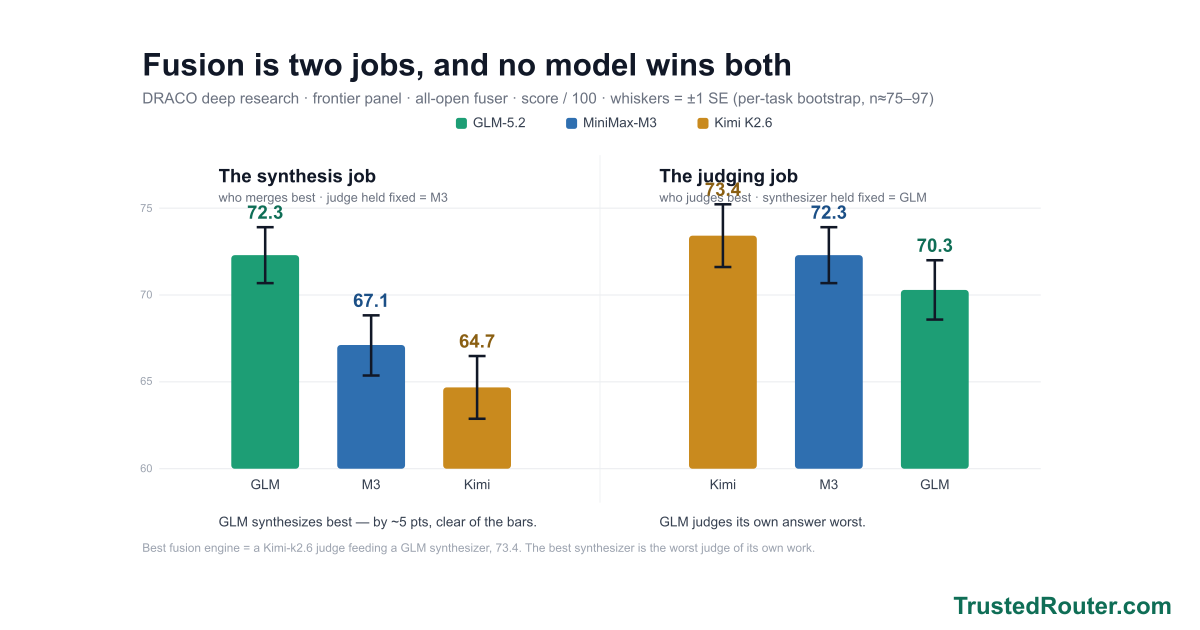
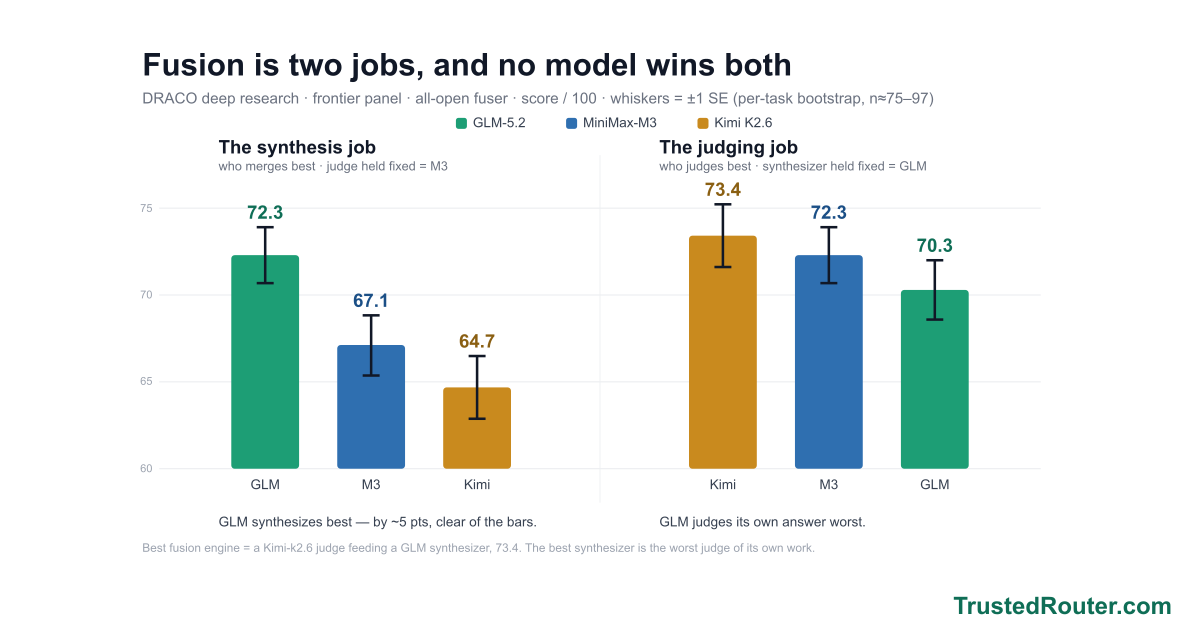
blog: fix fusion-is-two-jobs chart — raise panel titles so tall bars' labels/whiskers don't overlap the headings

Changed region(s): [[0.555, 0.2111, 0.7708, 0.3317], [0.185, 0.2111, 0.37, 0.3317]]

diff --git a/src/trusted_router/blog.py b/src/trusted_router/blog.py
@@ -32,7 +32,7 @@ BLOG_POSTS: tuple[BlogPost, ...] = (
         source_label="TrustedRouter-Fusion-Draco on GitHub",
         source_url="https://github.com/Lore-Hex/TrustedRouter-Fusion-Draco",
         body_html="""
-<svg xmlns="http://www.w3.org/2000/svg" viewBox="0 0 1200 630" width="100%" style="height:auto" font-family="Inter,Arial,sans-serif"><rect width="1200" height="630" fill="#ffffff"/><text x="60" y="56" font-size="37" font-weight="700" fill="#111827">Fusion is two jobs, and no model wins both</text><text x="60" y="89" font-size="18" fill="#6b7280">DRACO deep research · frontier panel · all-open fuser · score / 100 · whiskers = ±1 SE (per-task bootstrap, n≈75–97)</text><g font-size="16" fill="#374151"><rect x="430" y="106" width="13" height="13" rx="3" fill="#1d9e75"/><text x="450" y="117">GLM-5.2</text><rect x="560" y="106" width="13" height="13" rx="3" fill="#2f6fb0"/><text x="580" y="117">MiniMax-M3</text><rect x="715" y="106" width="13" height="13" rx="3" fill="#c98a1e"/><text x="735" y="117">Kimi K2.6</text></g><g stroke="#e5e7eb" stroke-width="1"><line x1="80" y1="212.5" x2="1120" y2="212.5"/><line x1="80" y1="315" x2="1120" y2="315"/><line x1="80" y1="417.5" x2="1120" y2="417.5"/><line x1="80" y1="520" x2="1120" y2="520"/></g><g font-size="13" fill="#9ca3af" text-anchor="end"><text x="72" y="217">75</text><text x="72" y="319">70</text><text x="72" y="421">65</text><text x="72" y="524">60</text></g><line x1="600" y1="150" x2="600" y2="560" stroke="#eceef1" stroke-width="1"/><text x="150" y="182" font-size="22" font-weight="600" fill="#111827">The synthesis job</text><text x="150" y="205" font-size="15" fill="#6b7280">who merges best · judge held fixed = M3</text><text x="670" y="182" font-size="22" font-weight="600" fill="#111827">The judging job</text><text x="670" y="205" font-size="15" fill="#6b7280">who judges best · synthesizer held fixed = GLM</text><g><rect x="165" y="268" width="80" height="252" rx="4" fill="#1d9e75"/><rect x="290" y="374" width="80" height="146" rx="4" fill="#2f6fb0"/><rect x="415" y="424" width="80" height="96" rx="4" fill="#c98a1e"/></g><g stroke="#111827" stroke-width="3"><line x1="205" y1="235" x2="205" y2="301"/><line x1="195" y1="235" x2="215" y2="235"/><line x1="195" y1="301" x2="215" y2="301"/><line x1="330" y1="339" x2="330" y2="410"/><line x1="320" y1="339" x2="340" y2="339"/><line x1="320" y1="410" x2="340" y2="410"/><line x1="455" y1="387" x2="455" y2="461"/><line x1="445" y1="387" x2="465" y2="387"/><line x1="445" y1="461" x2="465" y2="461"/></g><g text-anchor="middle"><text x="205" y="225" font-size="22" font-weight="700" fill="#0f6e56">72.3</text><text x="330" y="329" font-size="22" font-weight="700" fill="#1b4f86">67.1</text><text x="455" y="377" font-size="22" font-weight="700" fill="#8a5f12">64.7</text></g><g><rect x="705" y="245" width="80" height="275" rx="4" fill="#c98a1e"/><rect x="830" y="268" width="80" height="252" rx="4" fill="#2f6fb0"/><rect x="955" y="309" width="80" height="211" rx="4" fill="#1d9e75"/></g><g stroke="#111827" stroke-width="3"><line x1="745" y1="208" x2="745" y2="282"/><line x1="735" y1="208" x2="755" y2="208"/><line x1="735" y1="282" x2="755" y2="282"/><line x1="870" y1="235" x2="870" y2="301"/><line x1="860" y1="235" x2="880" y2="235"/><line x1="860" y1="301" x2="880" y2="301"/><line x1="995" y1="274" x2="995" y2="344"/><line x1="985" y1="274" x2="1005" y2="274"/><line x1="985" y1="344" x2="1005" y2="344"/></g><g text-anchor="middle"><text x="745" y="198" font-size="22" font-weight="700" fill="#8a5f12">73.4</text><text x="870" y="225" font-size="22" font-weight="700" fill="#1b4f86">72.3</text><text x="995" y="264" font-size="22" font-weight="700" fill="#0f6e56">70.3</text></g><g font-size="16" fill="#374151" text-anchor="middle"><text x="205" y="544">GLM</text><text x="330" y="544">M3</text><text x="455" y="544">Kimi</text><text x="745" y="544">Kimi</text><text x="870" y="544">M3</text><text x="995" y="544">GLM</text></g><text x="150" y="588" font-size="16" fill="#374151">GLM synthesizes best — by ~5 pts, clear of the bars.</text><text x="670" y="588" font-size="16" fill="#374151">GLM judges its own answer worst.</text><text x="60" y="618" font-size="14" fill="#9ca3af">Best fusion engine = a Kimi-k2.6 judge feeding a GLM synthesizer, 73.4. The best synthesizer is the worst judge of its own work.</text><text x="1188" y="621" text-anchor="end" font-family="Inter,Arial,sans-serif" font-size="21" font-weight="700" fill="#0f6e56">TrustedRouter.com</text></svg>
+<svg xmlns="http://www.w3.org/2000/svg" viewBox="0 0 1200 630" width="100%" style="height:auto" font-family="Inter,Arial,sans-serif"><rect width="1200" height="630" fill="#ffffff"/><text x="60" y="56" font-size="37" font-weight="700" fill="#111827">Fusion is two jobs, and no model wins both</text><text x="60" y="89" font-size="18" fill="#6b7280">DRACO deep research · frontier panel · all-open fuser · score / 100 · whiskers = ±1 SE (per-task bootstrap, n≈75–97)</text><g font-size="16" fill="#374151"><rect x="430" y="106" width="13" height="13" rx="3" fill="#1d9e75"/><text x="450" y="117">GLM-5.2</text><rect x="560" y="106" width="13" height="13" rx="3" fill="#2f6fb0"/><text x="580" y="117">MiniMax-M3</text><rect x="715" y="106" width="13" height="13" rx="3" fill="#c98a1e"/><text x="735" y="117">Kimi K2.6</text></g><g stroke="#e5e7eb" stroke-width="1"><line x1="80" y1="212.5" x2="1120" y2="212.5"/><line x1="80" y1="315" x2="1120" y2="315"/><line x1="80" y1="417.5" x2="1120" y2="417.5"/><line x1="80" y1="520" x2="1120" y2="520"/></g><g font-size="13" fill="#9ca3af" text-anchor="end"><text x="72" y="217">75</text><text x="72" y="319">70</text><text x="72" y="421">65</text><text x="72" y="524">60</text></g><line x1="600" y1="150" x2="600" y2="560" stroke="#eceef1" stroke-width="1"/><text x="150" y="148" font-size="22" font-weight="600" fill="#111827">The synthesis job</text><text x="150" y="168" font-size="15" fill="#6b7280">who merges best · judge held fixed = M3</text><text x="670" y="148" font-size="22" font-weight="600" fill="#111827">The judging job</text><text x="670" y="168" font-size="15" fill="#6b7280">who judges best · synthesizer held fixed = GLM</text><g><rect x="165" y="268" width="80" height="252" rx="4" fill="#1d9e75"/><rect x="290" y="374" width="80" height="146" rx="4" fill="#2f6fb0"/><rect x="415" y="424" width="80" height="96" rx="4" fill="#c98a1e"/></g><g stroke="#111827" stroke-width="3"><line x1="205" y1="235" x2="205" y2="301"/><line x1="195" y1="235" x2="215" y2="235"/><line x1="195" y1="301" x2="215" y2="301"/><line x1="330" y1="339" x2="330" y2="410"/><line x1="320" y1="339" x2="340" y2="339"/><line x1="320" y1="410" x2="340" y2="410"/><line x1="455" y1="387" x2="455" y2="461"/><line x1="445" y1="387" x2="465" y2="387"/><line x1="445" y1="461" x2="465" y2="461"/></g><g text-anchor="middle"><text x="205" y="225" font-size="22" font-weight="700" fill="#0f6e56">72.3</text><text x="330" y="329" font-size="22" font-weight="700" fill="#1b4f86">67.1</text><text x="455" y="377" font-size="22" font-weight="700" fill="#8a5f12">64.7</text></g><g><rect x="705" y="245" width="80" height="275" rx="4" fill="#c98a1e"/><rect x="830" y="268" width="80" height="252" rx="4" fill="#2f6fb0"/><rect x="955" y="309" width="80" height="211" rx="4" fill="#1d9e75"/></g><g stroke="#111827" stroke-width="3"><line x1="745" y1="208" x2="745" y2="282"/><line x1="735" y1="208" x2="755" y2="208"/><line x1="735" y1="282" x2="755" y2="282"/><line x1="870" y1="235" x2="870" y2="301"/><line x1="860" y1="235" x2="880" y2="235"/><line x1="860" y1="301" x2="880" y2="301"/><line x1="995" y1="274" x2="995" y2="344"/><line x1="985" y1="274" x2="1005" y2="274"/><line x1="985" y1="344" x2="1005" y2="344"/></g><g text-anchor="middle"><text x="745" y="198" font-size="22" font-weight="700" fill="#8a5f12">73.4</text><text x="870" y="225" font-size="22" font-weight="700" fill="#1b4f86">72.3</text><text x="995" y="264" font-size="22" font-weight="700" fill="#0f6e56">70.3</text></g><g font-size="16" fill="#374151" text-anchor="middle"><text x="205" y="544">GLM</text><text x="330" y="544">M3</text><text x="455" y="544">Kimi</text><text x="745" y="544">Kimi</text><text x="870" y="544">M3</text><text x="995" y="544">GLM</text></g><text x="150" y="588" font-size="16" fill="#374151">GLM synthesizes best — by ~5 pts, clear of the bars.</text><text x="670" y="588" font-size="16" fill="#374151">GLM judges its own answer worst.</text><text x="60" y="618" font-size="14" fill="#9ca3af">Best fusion engine = a Kimi-k2.6 judge feeding a GLM synthesizer, 73.4. The best synthesizer is the worst judge of its own work.</text><text x="1188" y="621" text-anchor="end" font-family="Inter,Arial,sans-serif" font-size="21" font-weight="700" fill="#0f6e56">TrustedRouter.com</text></svg>
 <p>Fuse a panel of models into one answer and you are running two separate jobs. A <strong>judge</strong> reads the panel and writes down where the models agree, where they contradict each other, and what they all missed. A <strong>synthesizer</strong> takes the panel and that analysis and writes the final answer. We put the three strongest open models — <a href="https://www.minimax.io"><span class="mono">MiniMax-M3</span></a>, <a href="https://z.ai"><span class="mono">GLM-5.2</span></a>, and <a href="https://www.moonshot.ai"><span class="mono">Kimi K2.6</span></a> — into both seats, every combination, nine fusers, all on the same frontier research panel and graded by the same <span class="mono">gemini-3.1-pro</span>. The best one is a pair: <strong>a Kimi-k2.6 judge and GLM writing, 73.4</strong> on <a href="/blog/fusion-evals-open-source">DRACO</a> deep research — the highest of the nine, with an M3 judge a hair behind at 72.3. No single model doing both jobs comes close.</p>
 <p>We <a href="/blog/the-best-synthesizers">argued before</a> that MiniMax-M3 is the best synthesizer. That test held the judge fixed at gemini and swapped only the writer, so it answered half the question. The judge is the other half — <a href="https://openrouter.ai/blog/announcements/fusion-beats-frontier/">OpenRouter</a>, whose Fusion design this follows, found the judge-and-synthesis step is where most of the lift comes from. The best <em>pair</em> is the grid above.</p>
 <table class="data-table"><tr><th>judge ↓ \\ synthesizer →</th><th><span class="mono">MiniMax-M3</span></th><th><span class="mono">GLM-5.2</span></th><th><span class="mono">Kimi K2.6</span></th></tr><tr><td><span class="mono">MiniMax-M3</span></td><td>67.1</td><td><strong>72.3</strong></td><td>64.7</td></tr><tr><td><span class="mono">GLM-5.2</span></td><td>68.0</td><td>70.3</td><td>66.9</td></tr><tr><td><span class="mono">Kimi K2.6</span></td><td>67.1</td><td><strong>73.4</strong></td><td>48.7</td></tr></table>